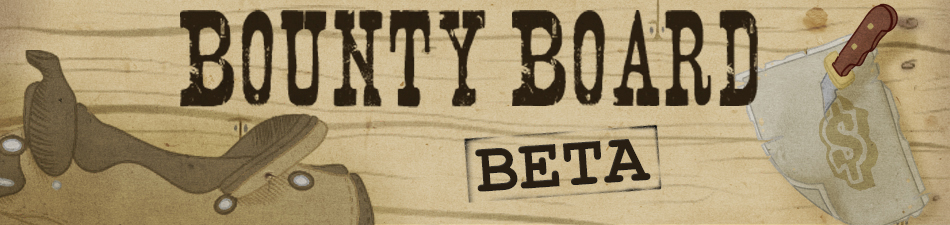
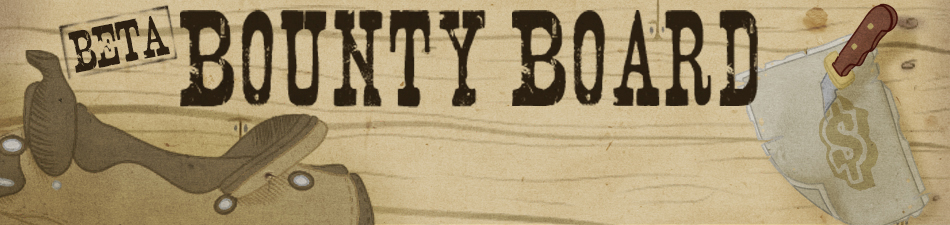
Updated bounty header image and added it to the page

Changed region(s): [[0.4884, 0.56, 0.7021, 0.9022], [0.0611, 0.0311, 0.1832, 0.3422]]

diff --git a/app/assets/stylesheets/_header.css.sass b/app/assets/stylesheets/_header.css.sass
@@ -8,7 +8,7 @@
   border: 1px inset $black
   +linkColor($white)
   +roundCorners
-  background-image: url('bountyHeader.jpg')
+  background-image: url('bountyHeaderBeta.jpg')
   margin: 30px auto 50px auto
   text-align: center
 
